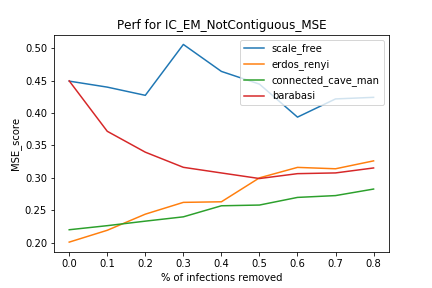
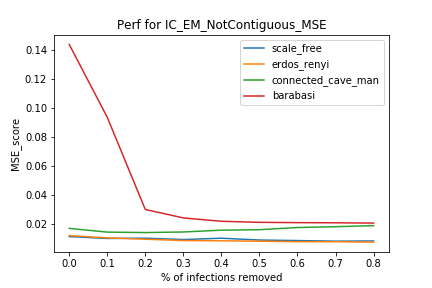
Refacto test [debug en cours]

diff --git a/IC_SAITO/src/GraphsTest.py b/IC_SAITO/src/GraphsTest.py
@@ -12,10 +12,12 @@ from networkx import nx
 import GraphGen as GGen
 import matplotlib.pyplot as plt
 import time
+from functools import partial
 
 DATA_PATH = '../data/eval/'
 
 def handmadeGraphTest():
+    '''' Test de performance avec graph fait main '''
     handmadeGraph=dok_matrix((5,5),dtype=np.float32)
     handmadeGraph[0,1] =0.5
     handmadeGraph[0,2] =0.5
@@ -25,76 +27,78 @@ def handmadeGraphTest():
     
     cascades = csc.genCascades(handmadeGraph,50)
     D = [csc.CascadeToTimeRepr(c) for c in cascades]
+    CrossVal_MAP = lambda model,D : Metrics.MAP(model.graph,D)
 
     models= [IC_EM_Saito2008(),IC_EM_NotContiguous()]
     scores = dict()
     for i,model in enumerate(models):
+        model.set_params(csc.nodes_in_D(D))
         cross_res = cross_validate(model,D,scoring=CrossVal_MAP)
         scores[str(model)] = cross_res['test_score'].mean()
     print("score for handmadegraph")
     scores["original"] = Metrics.MAP(handmadeGraph,D)
     pp.pprint(scores)
-    
 
 def saveCscadesDistrib(Cascades,t):
+    '''Sauvegarde la distribution de longeur de cascades sous forme d'histogramme'''
     lens = np.array([len(c) for c in Cascades])
     plt.hist(lens)
     plt.title(t)
     plt.savefig(DATA_PATH+t+'_csc')
     plt.show()
 
-
-def CrossVal_MAP(model,D):
-    return Metrics.MAP(model.graph,D)
-
-
-def ScoresGraphModels(graphs,graphs_titles,models,nbCascades,removed_pct_list):
-    metrics = ['fit_time','MSE','MAP']
-    data = {m:{str(g_t):dict() for g_t in graphs_titles} for m in metrics}
-    curves = {m:{str(g_t):dict() for g_t in graphs_titles} for m in metrics}
+def ScoresGraphModels(graph_dict,models,metrics,nbCascades,removed_pct_list):
+    indicators = list(metrics.keys())+['fit_time']
+    data = {m:{str(g_t):dict() for g_t in graph_dict.keys()} for m in indicators}
+    curves = {m:{str(g_t):dict() for g_t in graph_dict.keys()} for m in indicators}
     
-    for g,t in zip(graphs,graphs_titles) : 
+    for gtitle,g in graph_dict.items() : 
         cascades = csc.genCascades(g,nbCascades)
-        saveCscadesDistrib(cascades,t)
-        D = [csc.CascadeToTimeRepr(c) for c in cascades]
+        saveCscadesDistrib(cascades,gtitle)
+        
+        nodesInG = np.unique(sum(g.keys(),())).astype(int)
+        partial_cascades = [csc.remove_Xpct_users(nodesInG,cascades,pct) 
+                            for pct in removed_pct_list]
         
         for model in models: 
-           res = evaluateModelCurve(model,t,g,cascades,removed_pct_list)
-           for metric,r in zip(metrics,res):
-               data[metric][t][str(model)] = r[0]
-               curves[metric][t][str(model)] = r           
-
-        data["MAP"][t]["original"] = Metrics.MAP(g,D)
-
-    dfs = [pd.DataFrame(data[m]) for m in metrics]
-    for df,m in zip(dfs,metrics):
-        df.name = m
+            print("\nfor :",gtitle,str(model))
+            res = evaluateModelCurve(model,g,cascades,metrics,partial_cascades)
+            for metric,r in res.items():
+                data[metric][gtitle][str(model)] = r[0]
+                curves[metric][gtitle][str(model)] = r
+        if ("MAP" in metrics.keys()):
+            D = [csc.CascadeToTimeRepr(c) for c in cascades]
+            data["MAP"][gtitle]["original"] = Metrics.MAP(g,D)
+    print(f"data : {data}")
+    dfs = [pd.DataFrame(data[m]) for m in indicators]
+    for df,m in zip(dfs,indicators):
+        df.columns.name = m
     return dfs,curves
 
-def evaluateModel(model,gtitle,g,D,verbose= False):
-    if (verbose):
-        print("\nfor :",gtitle,str(model))
-    crossVal_MSE = lambda m,d : Metrics.MSE(g, m.graph)
+def evaluateModel(model,g,D,metrics):
+    ''' return res of cross validation for model g wit data D and metrics
+        the result is a dict  {metric_name : metric_result}'''
+    scoring_metrics = {m : partial(metrics[m],g=g) for m in metrics.keys() }
+    g = None    
     model.set_params(csc.nodes_in_D(D))
-    cross_res = cross_validate(model,D,scoring={"MAP":CrossVal_MAP,"MSE":crossVal_MSE})
-    if(verbose):
-        print(cross_res)
-    time,MSE,MAP = cross_res['fit_time'].mean(),cross_res['test_MSE'].mean(),cross_res['test_MAP'].mean()
-    return time,MSE,MAP
+    cross_res = cross_validate(model,D,scoring=scoring_metrics)
+    print(f'\n{cross_res}')
+    scores = {m:cross_res[f'test_{m}'].mean() for m in metrics.keys()}
+    scores['fit_time'] = cross_res['fit_time'].mean()
+    return scores
 
-def evaluateModelCurve(model,gtitle,g,cascades,removed_pct_list):
-    time = np.zeros(len(removed_pct_list))
-    MSE = np.zeros(len(removed_pct_list))
-    MAP = np.zeros(len(removed_pct_list))
-    nodesInG = np.unique(sum(g.keys(),())).astype(int)
-    for i,pct in enumerate(removed_pct_list):
-        partial_cascades = csc.remove_Xpct_users(nodesInG,cascades,pct)
-        D = [csc.CascadeToTimeRepr(c) for c in partial_cascades]
-        time[i],MSE[i],MAP[i] = evaluateModel(model,gtitle,g,D,True)
-    return time,MSE,MAP
+def evaluateModelCurve(model,g,cascades,metrics,partial_cascades):
+    data = {m:np.zeros(len(partial_cascades)) for m in metrics.keys()}
+    data['fit_time'] = np.zeros(len(partial_cascades))
+    for i,partial_cascade in enumerate(partial_cascades):
+        D = [csc.CascadeToTimeRepr(c) for c in partial_cascade]
+        cross_val_dict = evaluateModel(model,g,D,metrics)
+        for (metric,res) in cross_val_dict.items():
+            data[metric][i] = res
+    return data
 
-def launch_test(nbCascades):
-    # Generate GRAPHS 
+
+def generateGraphs():
     nx_to_dok_rand = lambda g : GGen.randomize_edges_values(
                                     dok_matrix(nx.to_scipy_sparse_matrix(g)))
     
@@ -111,16 +115,11 @@ def launch_test(nbCascades):
     bara_dok = nx_to_dok_rand(bara)
 
     graphs =[scale_free,erdos_renyi,connected_cave_man,bara]
-    graphs_dok = [scale_free_dok,erdos_renyi_dok,connected_cave_man_dok,bara_dok]
-    graphs_titles = [f"scale_free", f"erdos_renyi",
+    graphs_dok = [scale_free_dok, erdos_renyi_dok,
+                  connected_cave_man_dok, bara_dok]
+    
+    graphs_titles = [f"scale_free",  f"erdos_renyi",
                      f"connected_cave_man", f"barabasi"]
-    
-    removed_pct_list = np.linspace(0,0.8,9)
-    # train and test 
-    models=  [IC_EM_NotContiguous(),IC_EM_Saito2008()]
-    dfs,curves = ScoresGraphModels(graphs_dok,graphs_titles,models,nbCascades,removed_pct_list)
-    pd.set_option('display.max_columns', len(graphs))
-    
     # Save network graphs 
     for g,dok,t in zip(graphs,graphs_dok,graphs_titles) : 
         plt.title(t+f"{dok.shape[0]}") 
@@ -128,30 +127,49 @@ def launch_test(nbCascades):
         plt.savefig(DATA_PATH+t+'_g')
         plt.show()
     
-    # save perfs : 
+    return dict(zip(graphs_titles,graphs_dok))
+
+def launch_test(models,graph_dict,nbCascades,metrics):
+
+    removed_pct_list = np.linspace(0,0.8,9)
+    # train and test     
+    dfs,curves = ScoresGraphModels(graph_dict,models,metrics,nbCascades,removed_pct_list)
+        
+    # save perfs :
+    pd.set_option('display.max_columns', len(graph_dict))
     for df in dfs:
-        print(f"\n{df.name}:\n{df}")
-        with open(DATA_PATH+df.name+".md","w") as f:
+        print(f"perf :\n{df}")
+        with open(DATA_PATH+df.columns.name+".md","w") as f:
             f.write(df.to_markdown())
             
-    # save perf with missing data 
-    for m_id,model in enumerate(models):
-        for metric in ['MSE','MAP']:            
+    # save perf curves with missing data 
+    for model in models:
+        for metric in metrics.keys():            
+            plt.figure()
             plt.title(f'Perf for {str(model)}_{metric}')
-            for g_id,t in enumerate(graphs_titles):
-                c = curves[metric][t][str(model)]
-                plt.plot(removed_pct_list,c,label=t)
+            for gtitle in graph_dict.keys():
+                c = curves[metric][gtitle][str(model)]
+                plt.plot(removed_pct_list,c,label=gtitle)
             plt.legend()
             plt.xlabel('% of infections removed')
             plt.ylabel(f'{metric}_score')
             plt.savefig(f'{DATA_PATH}{str(model)}_{metric}.png')
             plt.show()
+            
 def main():
-    print("start")
-    start_time = time.time()
-    launch_test(200)
-    print("end " ,time.time()-start_time)
+    print("start : ")
     
-
+    start_time = time.time()
+    metrics = { 'MSE':(lambda model,D,g : Metrics.MSE(g, model.graph)),
+                #'MAE':(lambda model,D,g : Metrics.MAE(g, model.graph)),
+                'MAP':(lambda model,D,g : Metrics.MAP(model.graph,D)),
+               }
+    models=  [IC_EM_Saito2008(),
+              IC_EM_NotContiguous()]
+    graph_dict = generateGraphs()
+    launch_test(models,graph_dict,200,metrics)
+   
+    print("End \nTest duration : " ,time.time()-start_time)
+    
 if __name__ == "__main__":
     main()

diff --git a/IC_SAITO/src/IC_EM_Saito2008.py b/IC_SAITO/src/IC_EM_Saito2008.py
@@ -29,8 +29,8 @@ class IC_EM_Saito2008(BaseEstimator):
     def EM_IC(self,D,debug = False):
         # initalisation
         self.graph = GGen.RandGraphFromNodes(self.nodes)
-        D_plus_id =   {(v,u):self.D_plus_uv_id(D,v,u) for u,v in self.graph.keys()}
-        D_minus_len = {(v,u):self.D_minus_uv_len(D,v,u)for u,v in self.graph.keys()}
+        D_plus_id =   {(v,u):self.D_plus_uv_id(D,v,u) for v,u in self.graph.keys()}
+        D_minus_len = {(v,u):self.D_minus_uv_len(D,v,u)for v,u in self.graph.keys()}
         self.remove_edges(self.graph,D_plus_id)
         
         if debug:
@@ -45,7 +45,7 @@ class IC_EM_Saito2008(BaseEstimator):
             if debug : 
                 new_ll = self.llikelyhood(self.graph,D)
                 if new_ll < ll : 
-                    print(f"Likelyhood Error : descreasing : from {ll} to {new_ll}")
+                    raise Exception(f"Likelyhood Error : descreasing : from {ll} to {new_ll}")
                 ll = new_ll
         return self.graph
 
@@ -90,6 +90,7 @@ class IC_EM_Saito2008(BaseEstimator):
         for i,nodes in enumerate(Ds):
             if (w in nodes):
                 t = i
+                break
         if (t == 0): # si le noeud est le premier
             return 1
         if (t is None): # si le noeud n'est pas dans l'episode de diffusion
@@ -130,6 +131,7 @@ class IC_EM_Saito2008(BaseEstimator):
             time of w infection in cascade D_s
         Returns Integer    
         '''
+        #raise Exception("Never ever Right ? ")
         return np.prod([1-g[parent,w] for parent in csc.nodes_in_Ds(Ds)])
     
     def D_plus_uv_id(self,D,u,v):
@@ -153,7 +155,9 @@ class IC_EM_Saito2008(BaseEstimator):
         '''Calcule la log vraisemblance d'une cascade selon le graph '''
         ll = 0
         for v,u in g.keys() :
-            ll += np.log(self.P_sw(g,Ds,u))
+            Psw = self.P_sw(g,Ds,u)
+            Psw = np.where(Psw!=0,Psw,np.finfo(float).eps)
+            ll += np.log(Psw)
         return ll
     
     def llikelyhood(self,g,D):

diff --git a/IC_SAITO/src/Cascade.py b/IC_SAITO/src/Cascade.py
@@ -199,9 +199,9 @@ def Episode_Where_Tu_ancestor_Tv(D,u,v):
                 preceding_nodes +=Ds[t]
     return D_plus
 
-def NbEpisode_Where_Tu_Not_ancestor_Tv(D,u,v):
+def NbEpisode_With_u_and_not_v(D,u,v):
     '''
-    Returns number of epsiodes where : node u is in episode and not(t_u<t_v) 
+    Returns number of epsiodes where : node u is in episode and not V 
     Parameters
     ----------
     D : Array

diff --git a/IC_SAITO/src/Metrics.py b/IC_SAITO/src/Metrics.py
@@ -1,8 +1,14 @@
 import numpy as np
 import Cascade as csc 
 
+def RealMSE(ref,g):
+    g = g.copy()
+    g.resize(ref.shape)
+    return (ref-g).power(2).mean()
+
 def MSE(ref,g):
     '''calcule la mean square error entre 2 graphes '''
+    g = g.copy()
     g.resize(ref.shape)
     return ((ref-g).power(2)).sum()/len(ref)
 

diff --git a/IC_SAITO/src/IC_EM_NotContiguous.py b/IC_SAITO/src/IC_EM_NotContiguous.py
@@ -22,5 +22,5 @@ class IC_EM_NotContiguous(IC_EM_Saito2008):
         return csc.Episode_Where_Tu_ancestor_Tv(D,u,v)
     
     def D_minus_uv_len(self,D,u,v):
-        return csc.NbEpisode_Where_Tu_Not_ancestor_Tv(D,u,v) 
+        return csc.NbEpisode_With_u_and_not_v(D,u,v) 
     

diff --git a/IC_SAITO/data/eval/MAP.md b/IC_SAITO/data/eval/MAP.md
@@ -1,5 +1,5 @@
 |                     |   scale_free |   erdos_renyi |   connected_cave_man |   barabasi |
 |:--------------------|-------------:|--------------:|---------------------:|-----------:|
-| IC_EM_NotContiguous |     0.891275 |      0.838094 |             0.650595 |   0.883628 |
-| IC_EM_Saito2008     |     0.896268 |      0.846094 |             0.868657 |   0.923925 |
-| original            |     0.996185 |      0.92843  |             0.935542 |   0.966997 |
+| IC_EM_Saito2008     |     0.855878 |      0.748226 |             0.82153  |   0.900948 |
+| IC_EM_NotContiguous |     0.799674 |      0.512732 |             0.630554 |   0.682687 |
+| original            |     0.958159 |      0.903962 |             0.924522 |   0.944376 |

diff --git a/IC_SAITO/data/eval/MSE.md b/IC_SAITO/data/eval/MSE.md
@@ -1,4 +1,4 @@
 |                     |   scale_free |   erdos_renyi |   connected_cave_man |   barabasi |
 |:--------------------|-------------:|--------------:|---------------------:|-----------:|
-| IC_EM_NotContiguous |     0.44908  |      0.201172 |             0.220224 |   0.449441 |
-| IC_EM_Saito2008     |     0.149846 |      0.111583 |             0.178795 |   0.227348 |
+| IC_EM_Saito2008     |   0.00386806 |    0.00309486 |            0.0119716 |  0.0138163 |
+| IC_EM_NotContiguous |   0.0113844  |    0.0120637  |            0.0170322 |  0.144018  |

diff --git a/IC_SAITO/data/eval/fit_time.md b/IC_SAITO/data/eval/fit_time.md
@@ -1,4 +1,4 @@
 |                     |   scale_free |   erdos_renyi |   connected_cave_man |   barabasi |
 |:--------------------|-------------:|--------------:|---------------------:|-----------:|
-| IC_EM_NotContiguous |      1.27084 |       1.7629  |              2.09882 |    4.56777 |
-| IC_EM_Saito2008     |      1.00783 |       1.34655 |              1.24197 |    2.48512 |
+| IC_EM_Saito2008     |      1.01506 |       1.5979  |              1.25244 |    1.85783 |
+| IC_EM_NotContiguous |      1.46755 |       2.44111 |              2.69287 |    2.51031 |
